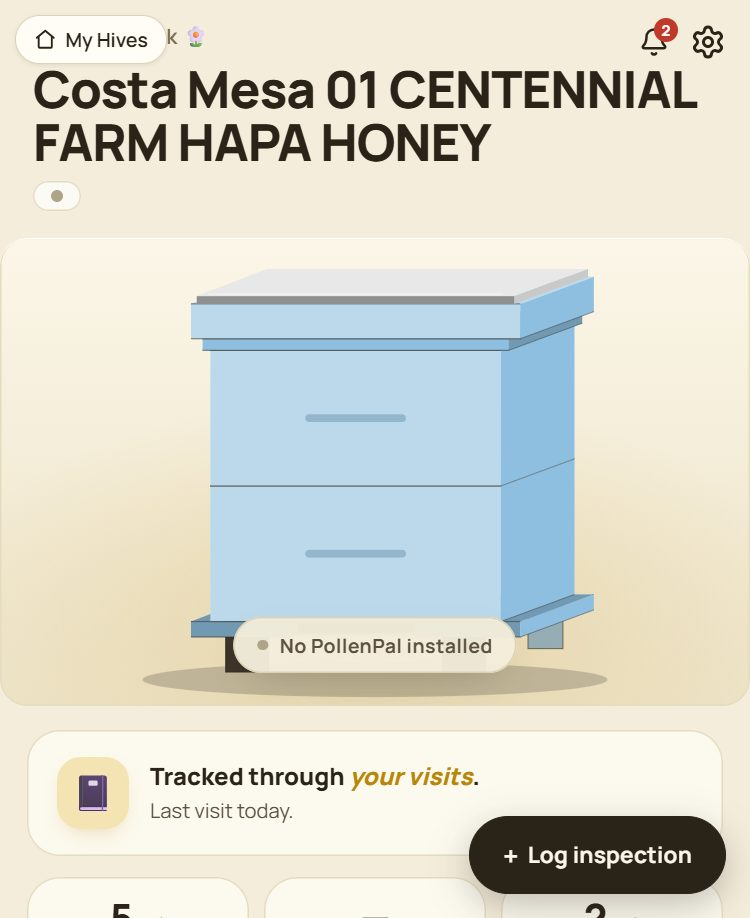
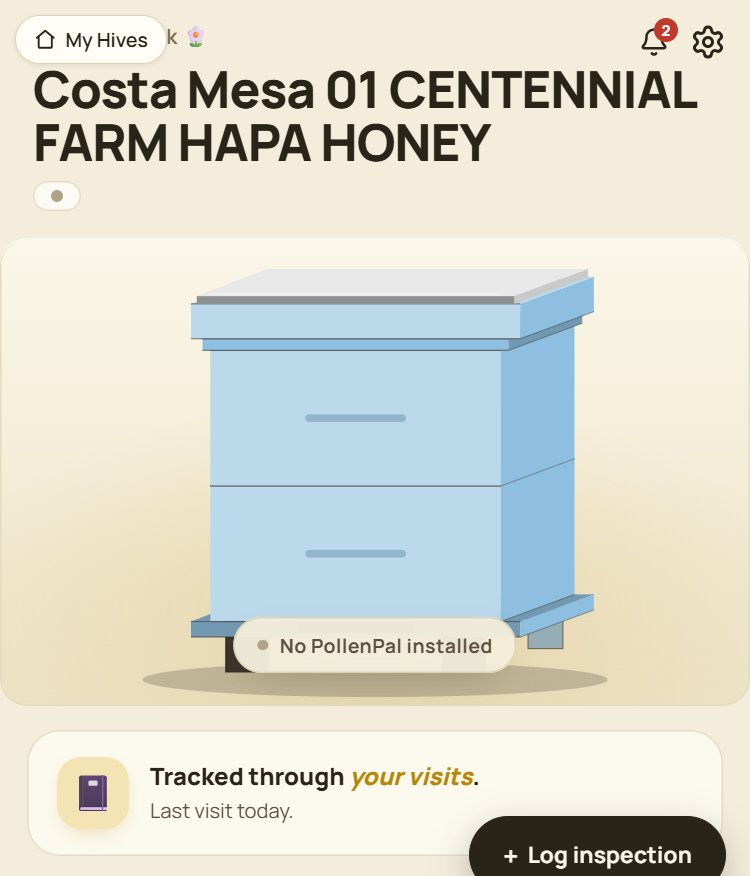
fix(hobbyist): hero screenshot was side-cropped by phone frame; show full image

diff --git a/hobbyist.html b/hobbyist.html
@@ -25,12 +25,12 @@
     .hero-subnote { font-size: 14px; color: var(--muted); margin-top: 16px; }
     .hero-visual { position: relative; display: flex; justify-content: center; align-items: center; }
     .phone-frame {
-      position: relative; width: 100%; max-width: 300px; aspect-ratio: 9/19;
+      position: relative; width: 100%; max-width: 300px;
       border-radius: 34px; overflow: hidden; background: var(--ink);
       border: 8px solid var(--ink);
       box-shadow: 0 30px 80px -20px rgba(10,10,10,0.25), 0 8px 20px -6px rgba(10,10,10,0.12);
     }
-    .phone-frame img { width: 100%; height: 100%; object-fit: cover; object-position: top center; }
+    .phone-frame img { width: 100%; height: auto; display: block; }
     @media (max-width: 960px) {
       .hero { padding: 56px 0 64px; }
       .hero-grid { grid-template-columns: 1fr; gap: 40px; }